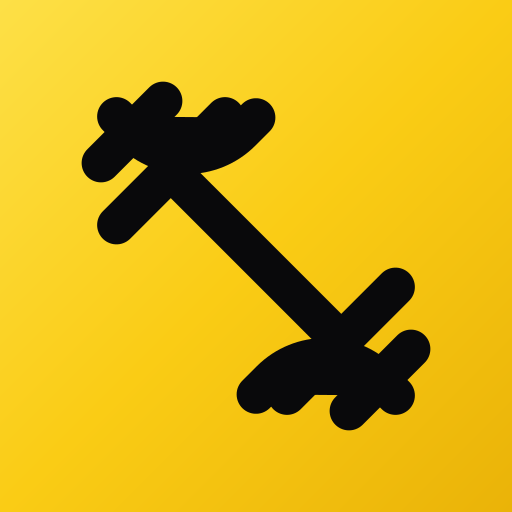
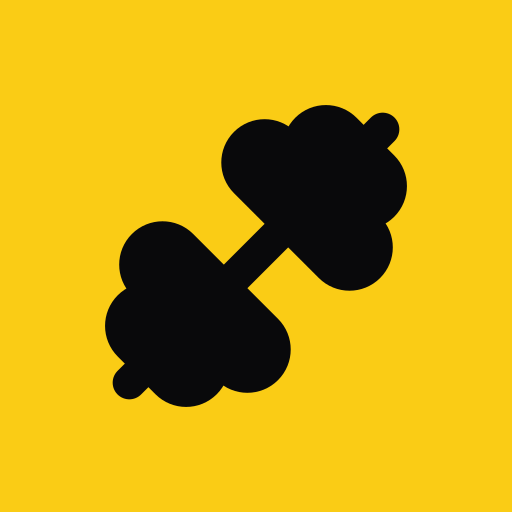
feat: display full training notes and update assets
- Add support for viewing full training notes in history
- Update app icons and manifest cache version

diff --git a/src/components/WorkoutLogs.tsx b/src/components/WorkoutLogs.tsx
@@ -1,5 +1,5 @@
 import React, { useState } from 'react';
-import { Calendar, Clock, TrendingUp, Dumbbell, Trash2, Search, ChevronDown, ChevronUp, AlertTriangle } from 'lucide-react';
+import { Calendar, Clock, TrendingUp, Dumbbell, Trash2, Search, ChevronDown, ChevronUp, AlertTriangle, FileText } from 'lucide-react';
 import { WorkoutSession } from '../types';
 
 interface WorkoutLogsProps {
@@ -130,6 +130,17 @@ export default function WorkoutLogs({ workouts, onDeleteSession }: WorkoutLogsPr
                         <Clock className="w-3.5 h-3.5" /> {formatDuration(session.duration)}
                       </span>
                     </p>
+
+                    {/* Always visible full training note without truncation */}
+                    {session.notes && (
+                      <div className="mt-2.5 p-2.5 bg-zinc-950/80 border border-zinc-800/80 rounded-xl text-xs text-zinc-300 flex items-start gap-2 select-text">
+                        <FileText className="w-3.5 h-3.5 text-yellow-400 shrink-0 mt-0.5" />
+                        <div className="flex-1 min-w-0">
+                          <span className="text-[11px] font-semibold text-zinc-400 block mb-0.5">Notatka do treningu:</span>
+                          <p className="whitespace-pre-wrap leading-relaxed text-zinc-200">{session.notes}</p>
+                        </div>
+                      </div>
+                    )}
                   </div>
 
                   <div className="flex items-center justify-between md:justify-end gap-6 border-t md:border-t-0 border-zinc-800/40 pt-3 md:pt-0">

diff --git a/index.html b/index.html
@@ -13,11 +13,11 @@
     <meta name="theme-color" content="#0A0A0C" />
     
     <!-- PWA Manifest & Icons -->
-    <link rel="manifest" href="/manifest.json?v=3" />
-    <link rel="icon" type="image/svg+xml" href="/icon.svg?v=3" />
-    <link rel="icon" type="image/png" sizes="32x32" href="/favicon-32x32.png?v=3" />
-    <link rel="apple-touch-icon" sizes="180x180" href="/apple-touch-icon.png?v=3" />
-    <link rel="apple-touch-icon-precomposed" sizes="180x180" href="/apple-touch-icon.png?v=3" />
+    <link rel="manifest" href="/manifest.json?v=4" />
+    <link rel="icon" type="image/svg+xml" href="/icon.svg?v=4" />
+    <link rel="icon" type="image/png" sizes="32x32" href="/favicon-32x32.png?v=4" />
+    <link rel="apple-touch-icon" sizes="180x180" href="/apple-touch-icon.png?v=4" />
+    <link rel="apple-touch-icon-precomposed" sizes="180x180" href="/apple-touch-icon.png?v=4" />
     
     <!-- Fonts -->
     <link rel="preconnect" href="https://fonts.googleapis.com" />
